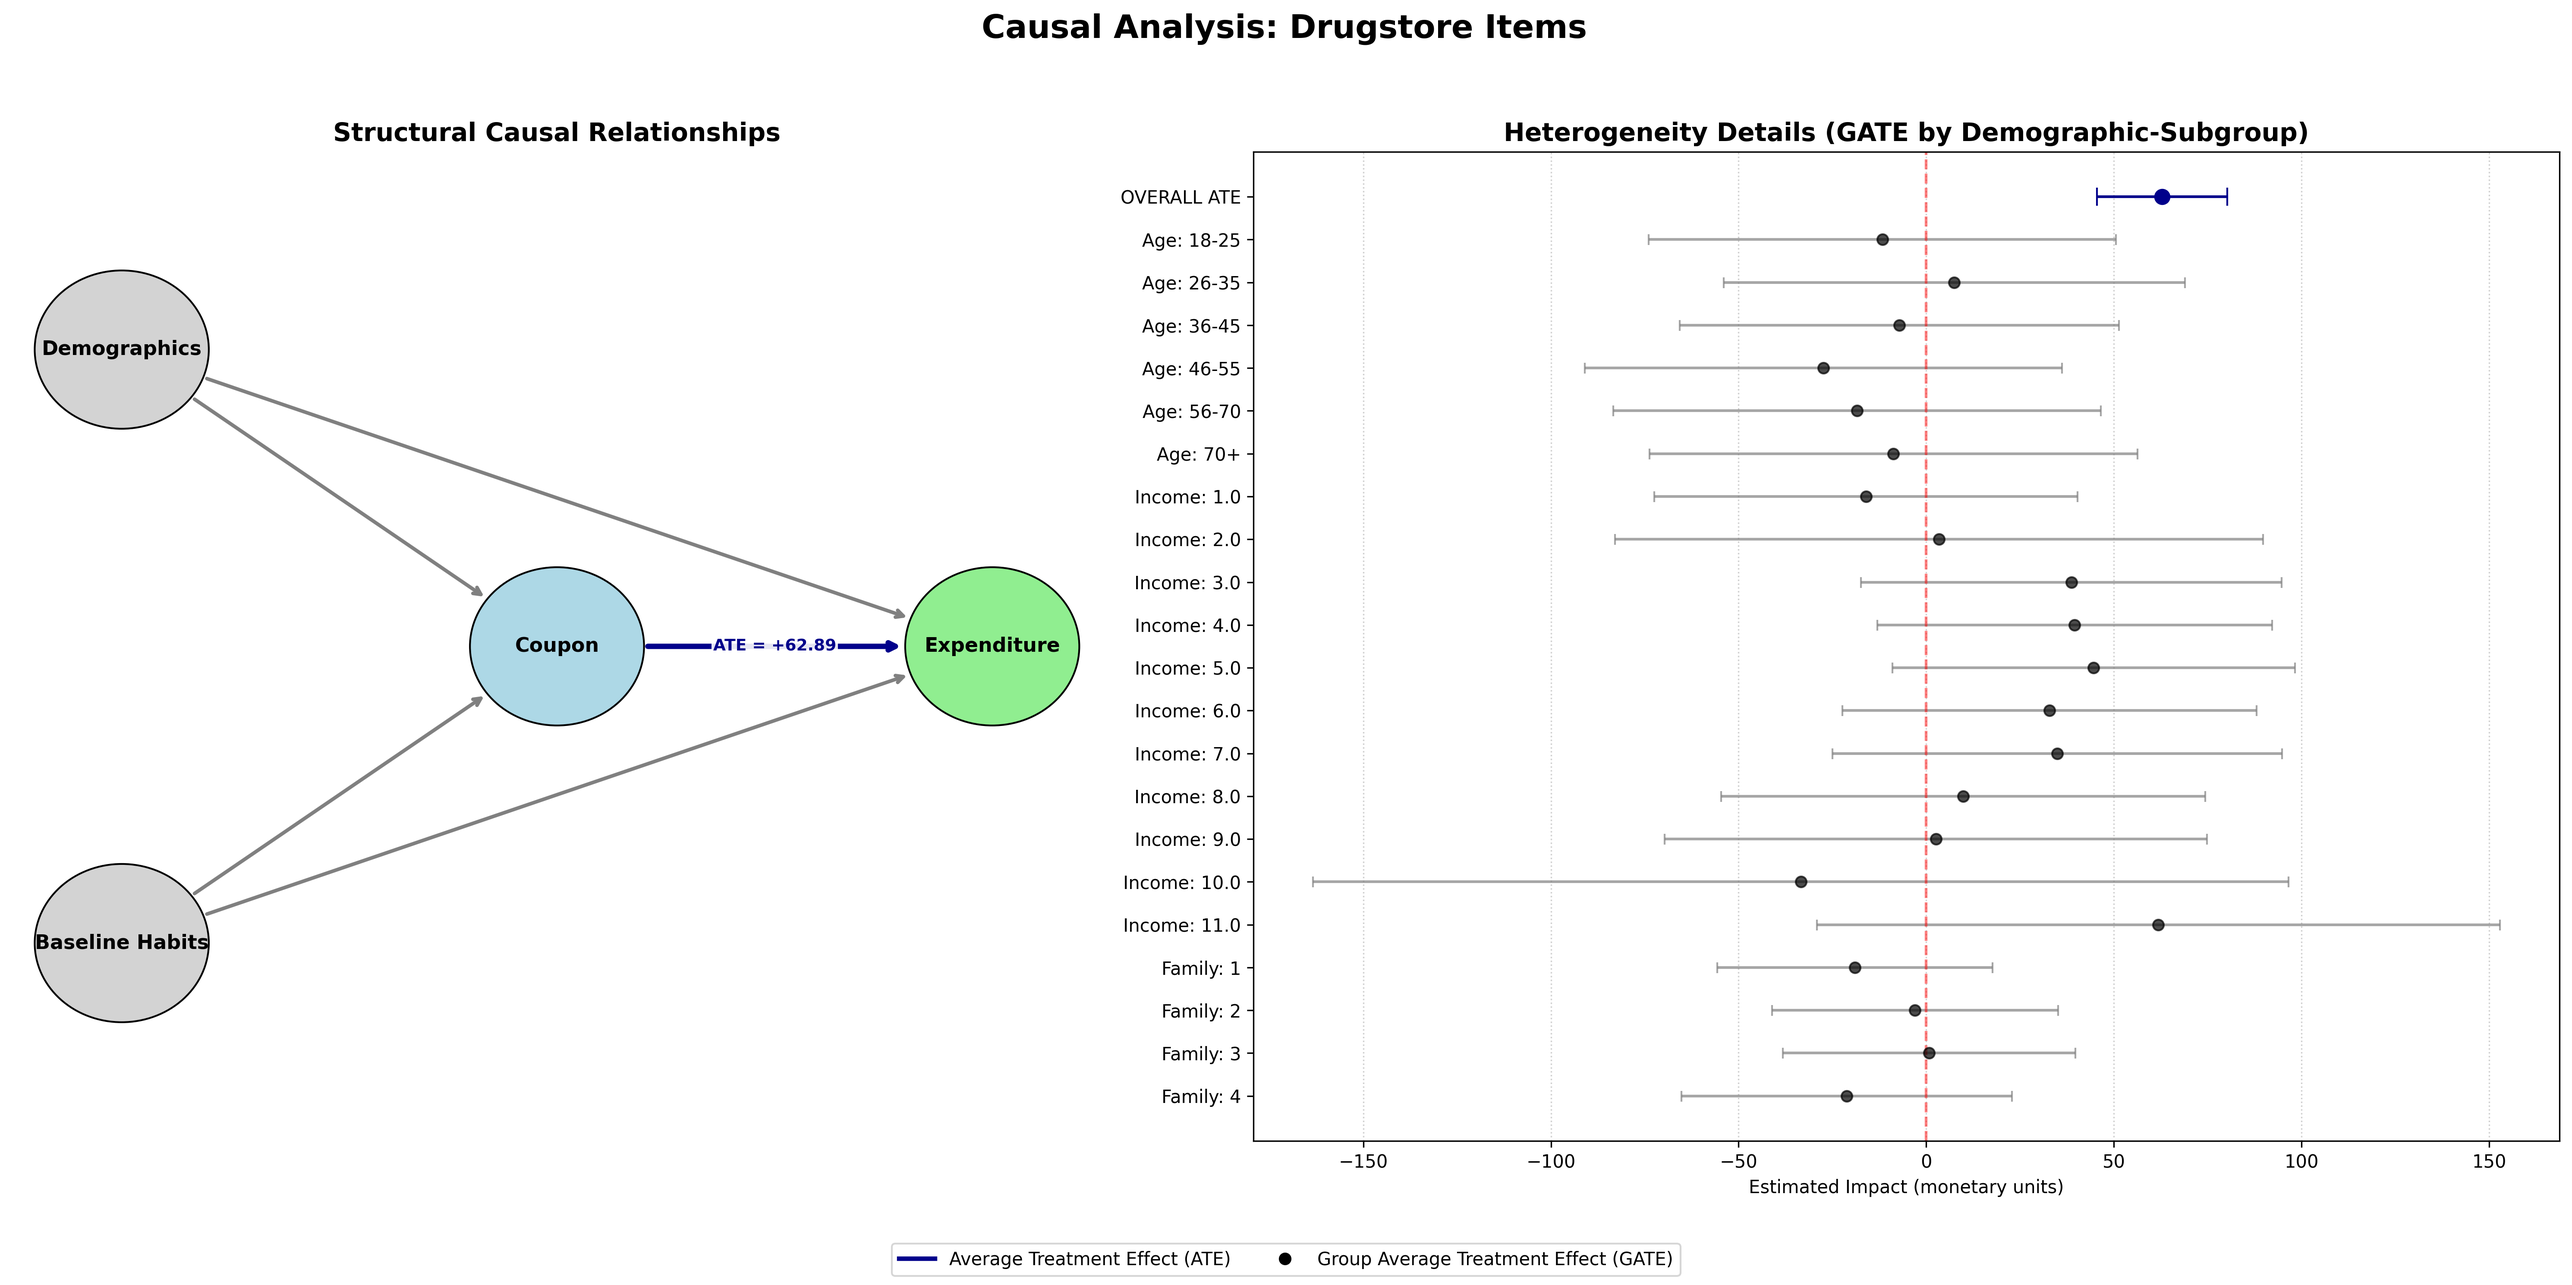
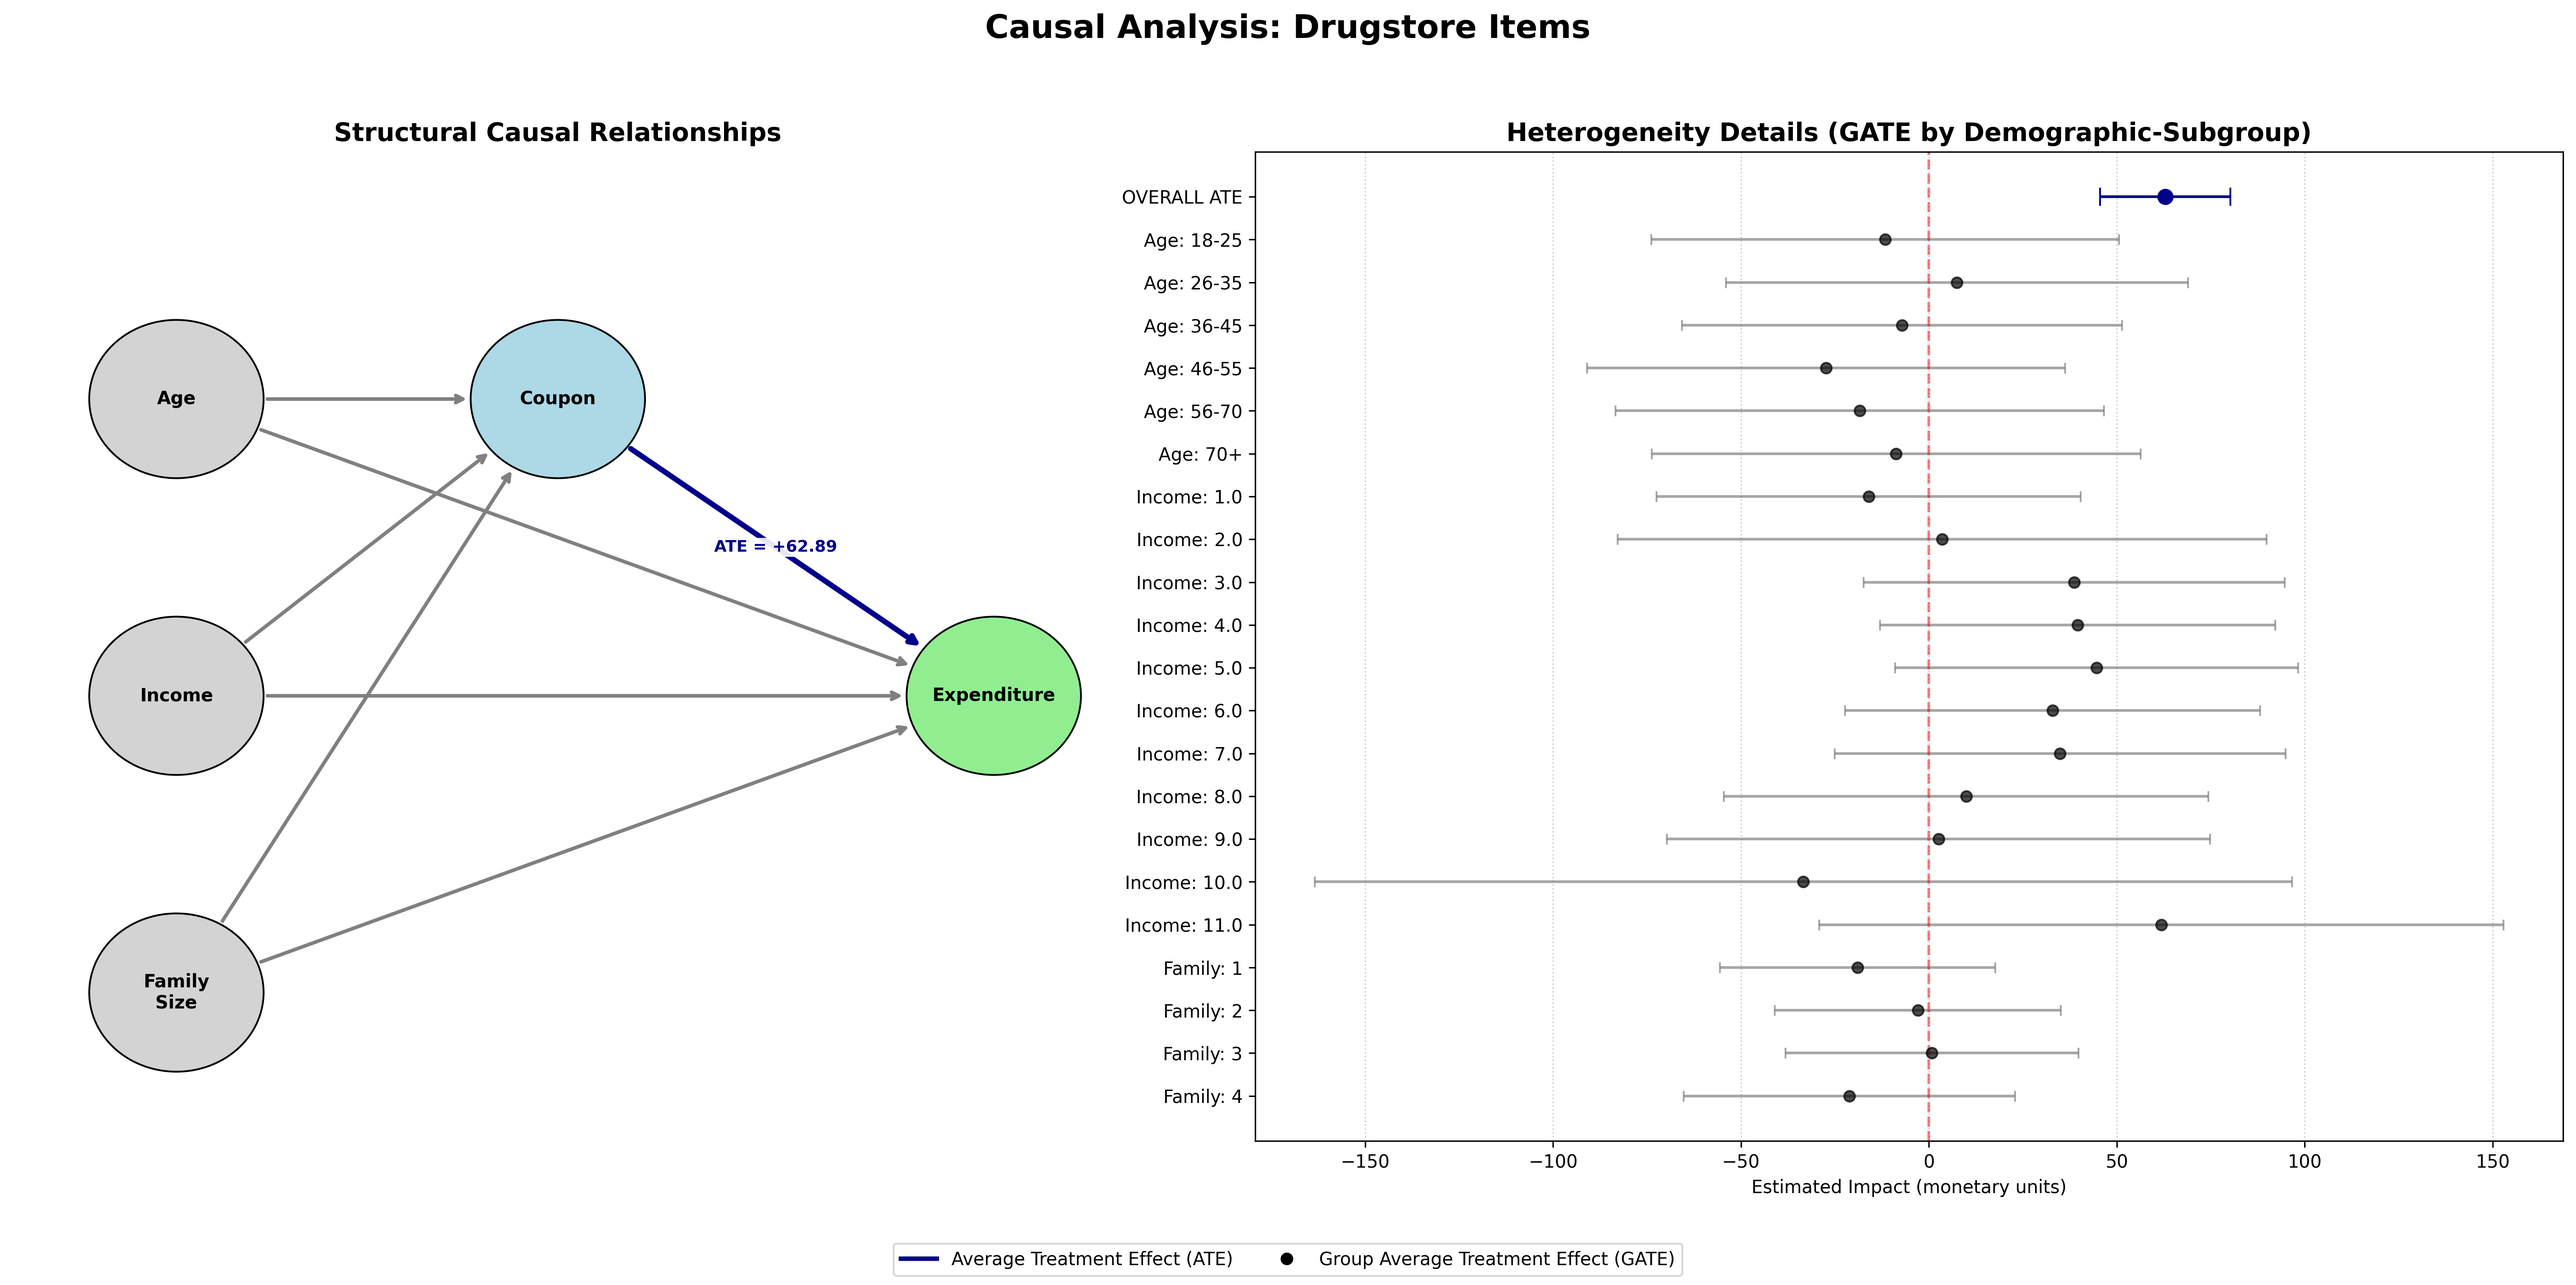
Changed DAG and table

diff --git a/visualize_results.py b/visualize_results.py
@@ -126,7 +126,8 @@ def plot_summary_table():
             "Metrics Explanation:\n"
             "• ATE (Average Treatment Effect): The average change in expenditure caused by the coupon across all customers.\n"
             "• GATE (Group Average Treatment Effect): The estimated impact for specific demographic subgroups.\n"
-            "  The 95% Confidence Interval shows the range where the true effect likely falls."
+            "  The 95% Confidence Interval shows the range where the true effect likely falls.\n"
+            "• Income Bracket: 1 (lowest) to 11 (highest). A higher number corresponds to higher income."
         )
         ax.text(0.5, -0.05, explanation, fontsize=8, ha='center', va='top', transform=ax.transAxes,
                 bbox=dict(boxstyle="round,pad=0.5", facecolor="white", edgecolor="lightgray", alpha=0.9))
@@ -461,10 +462,11 @@ def plot_causal_dag():
         
         # --- LEFT PANEL: Structural DAG ---
         pos = {
-            "Demographics": (0.1, 0.8),
-            "Baseline Habits": (0.1, 0.2),
-            "Coupon": (0.5, 0.5),
-            "Expenditure": (0.9, 0.5)
+            "Age": (0.15, 0.75),
+            "Income": (0.15, 0.45),
+            "Family Size": (0.15, 0.15),
+            "Coupon": (0.5, 0.75),
+            "Expenditure": (0.9, 0.45)
         }
         
         node_patches = {}
@@ -473,7 +475,9 @@ def plot_causal_dag():
             circle = plt.Circle((x, y), 0.08, color=color, ec="black", zorder=3)
             ax_dag.add_patch(circle)
             node_patches[node] = circle
-            ax_dag.text(x, y, node, ha="center", va="center", fontweight="bold", zorder=4, fontsize=11)
+            # Wrap text for Family Size if needed
+            display_text = node.replace(" ", "\n")
+            ax_dag.text(x, y, display_text, ha="center", va="center", fontweight="bold", zorder=4, fontsize=10)
 
         def draw_arrow(start, end, label, color="black", lw=2, ax=ax_dag):
             ax.annotate("", xy=pos[end], xytext=pos[start], 
@@ -487,8 +491,7 @@ def plot_causal_dag():
                         fontweight="bold", fontsize=9, bbox=dict(facecolor='white', edgecolor='none', alpha=0.9, pad=1))
 
         # Draw DAG Arrows
-        for _, row in t_conf.iterrows():
-            c_node = "Demographics" if row["confounder_group"] == "Demographics" else "Baseline Habits"
+        for c_node in ["Age", "Income", "Family Size"]:
             draw_arrow(c_node, "Coupon", "", color="gray")
             draw_arrow(c_node, "Expenditure", "", color="gray")
         draw_arrow("Coupon", "Expenditure", f"ATE = {ate_val:+.2f}", color="darkblue", lw=3)
